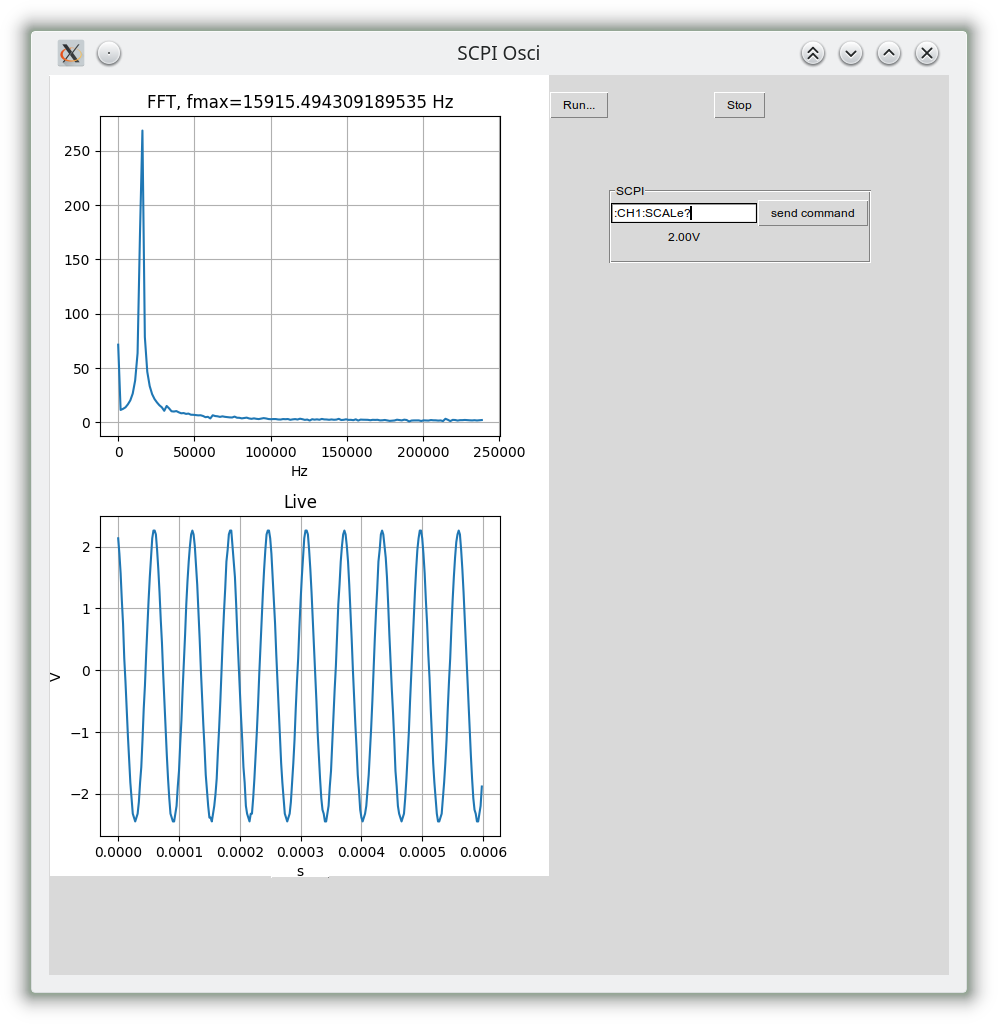
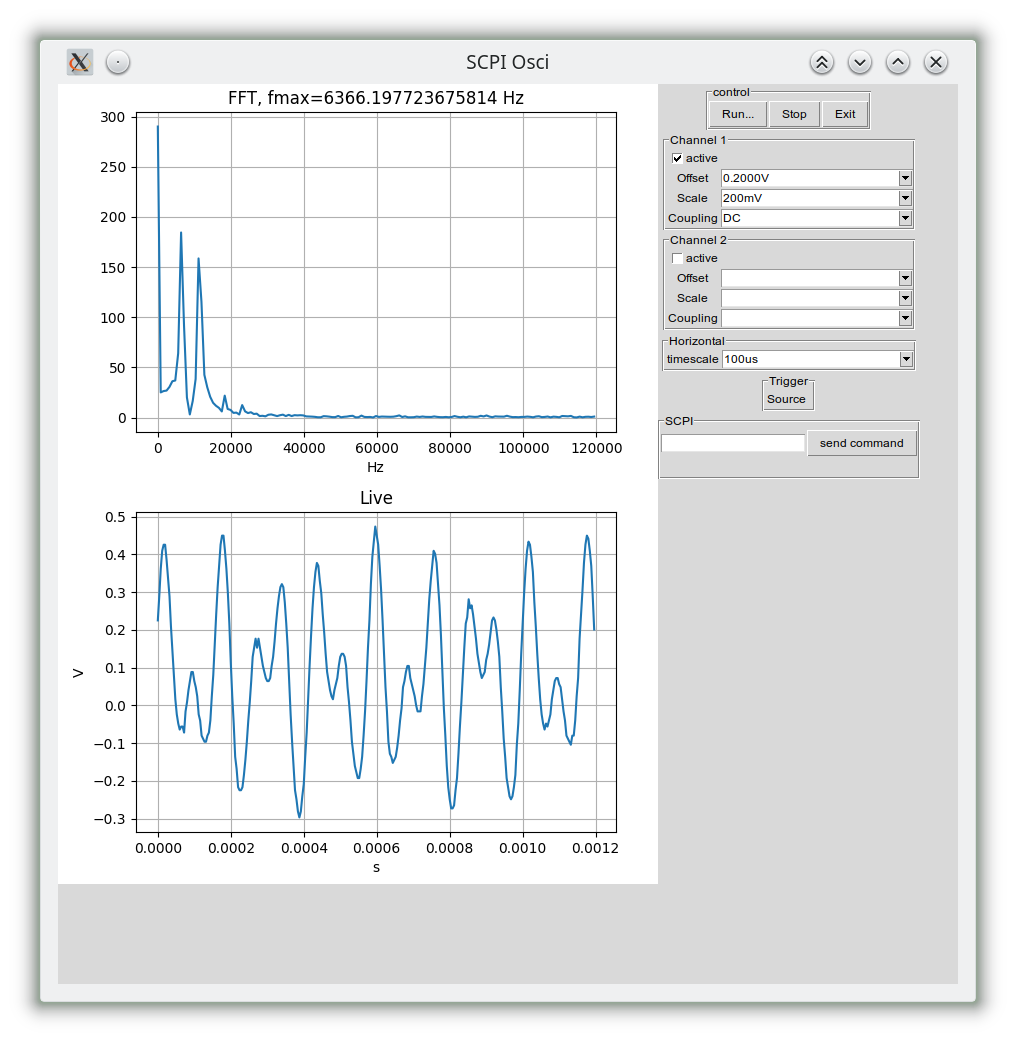
correction of scales

diff --git a/main.py b/main.py
@@ -22,14 +22,14 @@ window.geometry("900x900")
 
 
 #init FFT fig
-fftFigure= Figure(figsize = (5, 4), 
+fftFigure= Figure(figsize = (6, 4), 
                  dpi = 100) 
 
 canvas= FigureCanvasTkAgg(fftFigure, master=window)
 canvas.draw()
 canvas.get_tk_widget().grid(column=0,row=0,rowspan=9)
 
-liveFigure=Figure(figsize=(5,4), dpi=100)
+liveFigure=Figure(figsize=(6,4), dpi=100)
 livecanvas= FigureCanvasTkAgg(liveFigure, master=window)
 livecanvas.draw()
 livecanvas.get_tk_widget().grid(column=0,row=10,rowspan=9)
@@ -38,7 +38,7 @@ livecanvas.get_tk_widget().grid(column=0,row=10,rowspan=9)
 
 def plotLive(hordata,data,fig):
     fig.clf()
-    p=fig.add_axes([0.1, 0.1, 0.8, 0.8])
+    p=fig.add_axes([0.13, 0.13, 0.8, 0.8])
     p.set_title("Live")
     p.plot(hordata,data)
     p.set_xlabel("s")
@@ -48,10 +48,6 @@ def plotLive(hordata,data,fig):
 def plots():
     while(1):
         #getScalings()
-        scal=list()
-        scal.append(list())
-        scal.append(1)
-        scal[0].append(1)
         t=currentThread()
         if(getattr(t,"do_run", True)):
             osci.updateData()
@@ -60,11 +56,11 @@ def plots():
             #print(type(data))
             #print(data[0])
             for i in range(len(data)):
-                x=np.multiply(list(range(len(data[i]))),scal[0][0]*12/len(data[i]))
-                plotLive(x,np.add(np.multiply(data[i],scal[1]*0.64),-1.0*verOff), liveFigure)
+                x=np.multiply(list(range(len(data[i]))),osci.timescale.getNumeric()*12/len(data[i]))
+                plotLive(x,np.add(np.multiply(data[i],osci.channels[i].vertScale.getNumeric()*0.64),-1.0*osci.channels[i].offset*osci.channels[i].vertScale.getNumeric()), liveFigure)
                 livecanvas.draw()
 
-                plotFFT(data[i], fftFigure, xscal=scal[0][0])
+                plotFFT(data[i], fftFigure, xscal=osci.timescale.getNumeric())
                 canvas.draw()
 
 plotthread= Thread(target=plots)
@@ -72,8 +68,6 @@ plotthread.do_run=False
 plotthread.start()
 def startplotthread():
     try:
-        scal=1
-        verOff=0    
         plotthread.do_run=True
     except:
         print("error at on button action.")
@@ -122,7 +116,7 @@ exit_button = Button(master=controlFrame, text="Exit", command=quitall)
 exit_button.grid(row=0, column=2)
 
 SCPIframe = LabelFrame(window, text="SCPI")
-SCPIframe.grid(column=1,row=4)
+SCPIframe.grid(column=1,row=6)
 SCPIinput=Entry(master=SCPIframe)
 SCPIinput.grid(column=0,row=0)
 sendbutton=Button(master=SCPIframe, text="send command", command=sendSCPI)
@@ -174,20 +168,33 @@ channelBCoupling=StringVar()
 channelBCouplingBox=ttk.Combobox(channelBFrame, textvar=channelBCoupling, width=25)
 channelBCouplingBox.grid(row=3, column=1)
 
+horizontalFrame  = LabelFrame(master=window, text="Horizontal")
+horizontalFrame.grid(column=1, row=4)
+horizontalScaleLabel=Label(horizontalFrame, text="timescale")
+horizontalScaleLabel.grid(row=0,column=0)
+horizontalScaleStr=StringVar()
+horizontalScaleBox=ttk.Combobox(horizontalFrame, textvar=horizontalScaleStr, width=25)
+horizontalScaleBox.grid(row=0, column=1)
+
+
+triggerFrame  = LabelFrame(master=window, text="Trigger")
+triggerFrame.grid(column=1, row=5)
+triggerSourceLabel=Label(triggerFrame, text="Source")
+triggerSourceLabel.grid(row=0, column=0)
+
 
 osci=osciDevice()
 
 
 
-try:
-    osci.updateSettings()
-    verOff=0#getOffset()
-except:
-    errmsg='Error: Could not get scalings. Is a compatible oscilloscope in HID mode connected?'
-    if os.name == 'nt':
-        errmsg=errmsg+' Are you using libusb from libusb.info? If not, copy it to Windows\System32'
-    print(errmsg)
-    messagebox.showerror('SCPI Error', errmsg)
+#try:
+osci.updateSettings()
+#except:
+#    errmsg='Error: Could not get scalings. Is a compatible oscilloscope in HID mode connected?'
+#    if os.name == 'nt':
+#        errmsg=errmsg+' Are you using libusb from libusb.info? If not, copy it to Windows\System32'
+#    print(errmsg)
+#    messagebox.showerror('SCPI Error', errmsg)
 
 channelAOn=osci.channels[0].active
 channelAScale.set(osci.channels[0].vertScale.getStr())
@@ -195,6 +202,8 @@ channelAOffset.set("{:.4f}".format(osci.channels[0].offset)+"V")
 channelACoupling.set(osci.channels[0].coupling)
 if(osci.channels[0].active==1):
     channelAActive.select()
+
+horizontalScaleStr.set(osci.timescale.getStr())
 
 window.protocol('WM_DELETE_WINDOW', quitall)
 window.mainloop()

diff --git a/osciclasses.py b/osciclasses.py
@@ -131,7 +131,7 @@ class timeScale:
     numeric=1
     string="1 s"
 
-    def __init__():
+    def __init__(self):
         return
 
     def getNumeric(self):
@@ -149,7 +149,7 @@ class timeScale:
             self.numeric=float(scalStr[:-2])
         else:
             self.numeric=float(scalStr[:-3])*unit
-        self.string=scalStr
+        self.string=scalStr.strip()
 
 class osciDevice:
     channels=list()
@@ -167,6 +167,7 @@ class osciDevice:
         self.channels.append(osciChannel())
         #self.channels.append(osciChannel(ChId=2))
         self.conn=SCPI.SCPIconnector(self.idVendor, self.idProduct,self.endPointOut, self.endPointIn)
+        self.timescale=timeScale()
 
     def addChannel(self):
         self.channels.append(osciChannel())
@@ -175,25 +176,13 @@ class osciDevice:
         self.availableScales=list()
         return
 
-    def getHorScaling(self):
-        self.conn.reset()
-        res=self.conn.send(':HORizontal:SCALe?')
-        scalStr=res.tobytes().decode('utf-8')
-        unit=calcScalPrefactor(scalStr[-3])
-        if(unit==1):
-            scal=float(scalStr[:-2])
-        else:
-            scal=float(scalStr[:-3])*unit
-        print("scal... ", scal, "unit...", unit)#, scal2, scal3, scal4)
-        return scal, scalStr
-
 
     def updateSettings(self):
         for ch in self.channels:
             ch.updateSettingsFromSCPI(self.conn)
         self.trigger.updateFromSCPI(self.conn)
         self.getScalesFromSCPI()
-        self.getHorScaling()        
+        self.timescale.updateFromSCPI(self.conn)        
 
     def updateData(self):
         #print("fetching data...")

diff --git a/fftplot.py b/fftplot.py
@@ -5,13 +5,13 @@ import numpy as np
 
 def plotFFT(data, fig, xscal=1):
     fig.clf()
-    p=fig.add_axes([0.1, 0.1, 0.8, 0.8])
+    p=fig.add_axes([0.13, 0.13, 0.8, 0.8])
 #    p.set_title("FFT")
     transf=np.abs(fft.rfft(data))
     
     fscaler=0.5/(xscal*2*np.pi) 
 
-    maxv=max(transf)
+    maxv=max(transf[1:])
     maxf=np.where(transf==maxv)[0][0]*fscaler
 
     p.set_title("FFT, fmax="+str(maxf)+" Hz")
